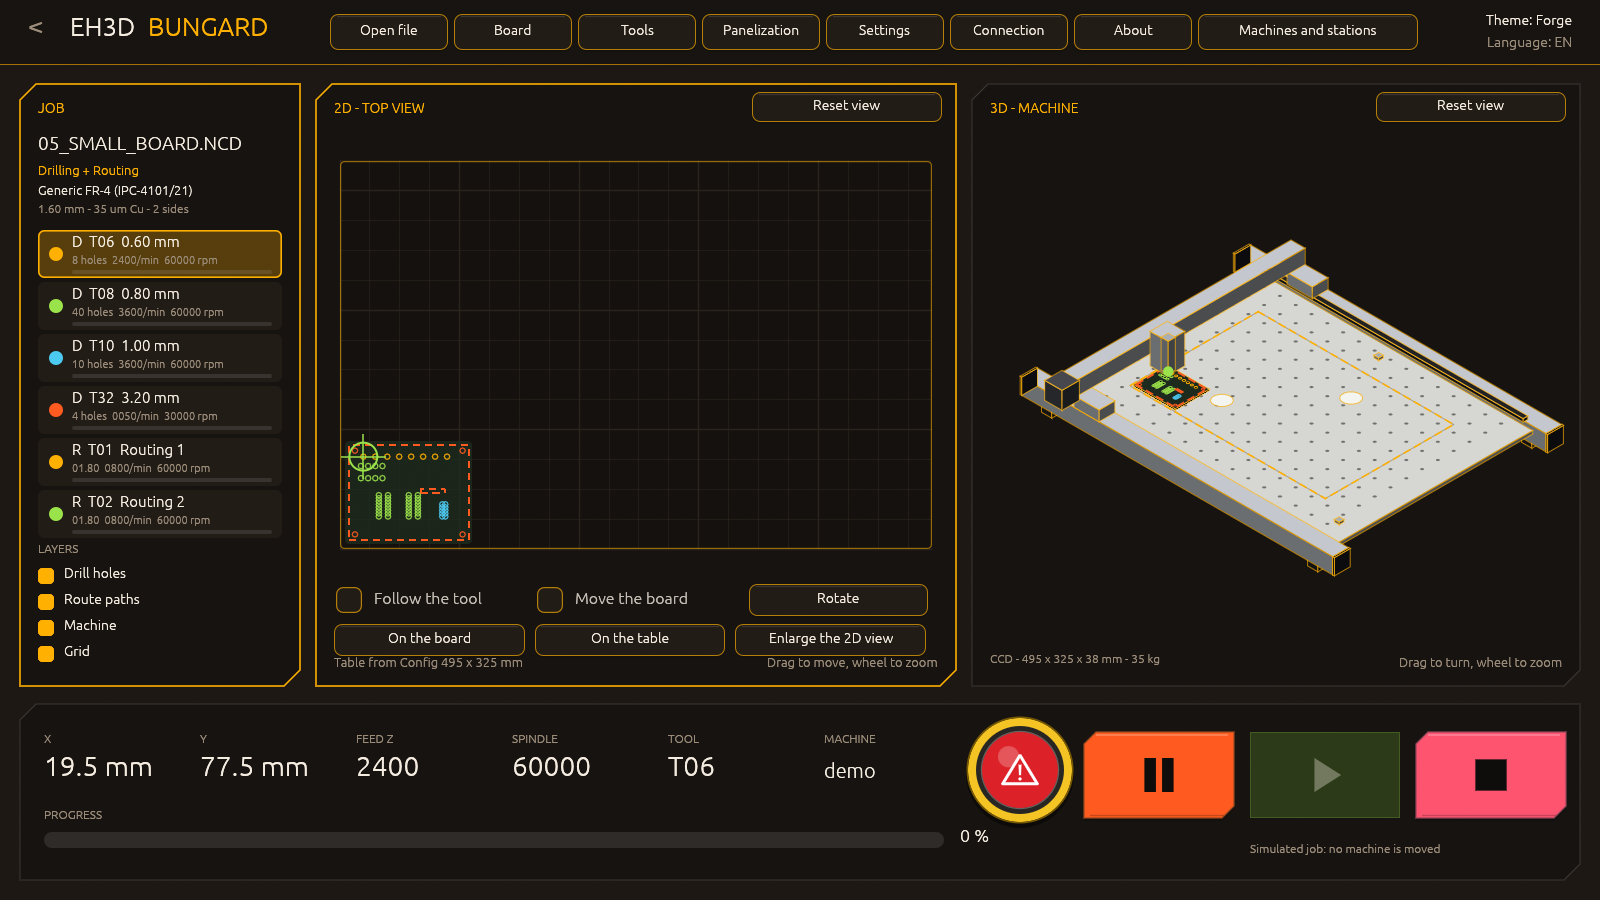
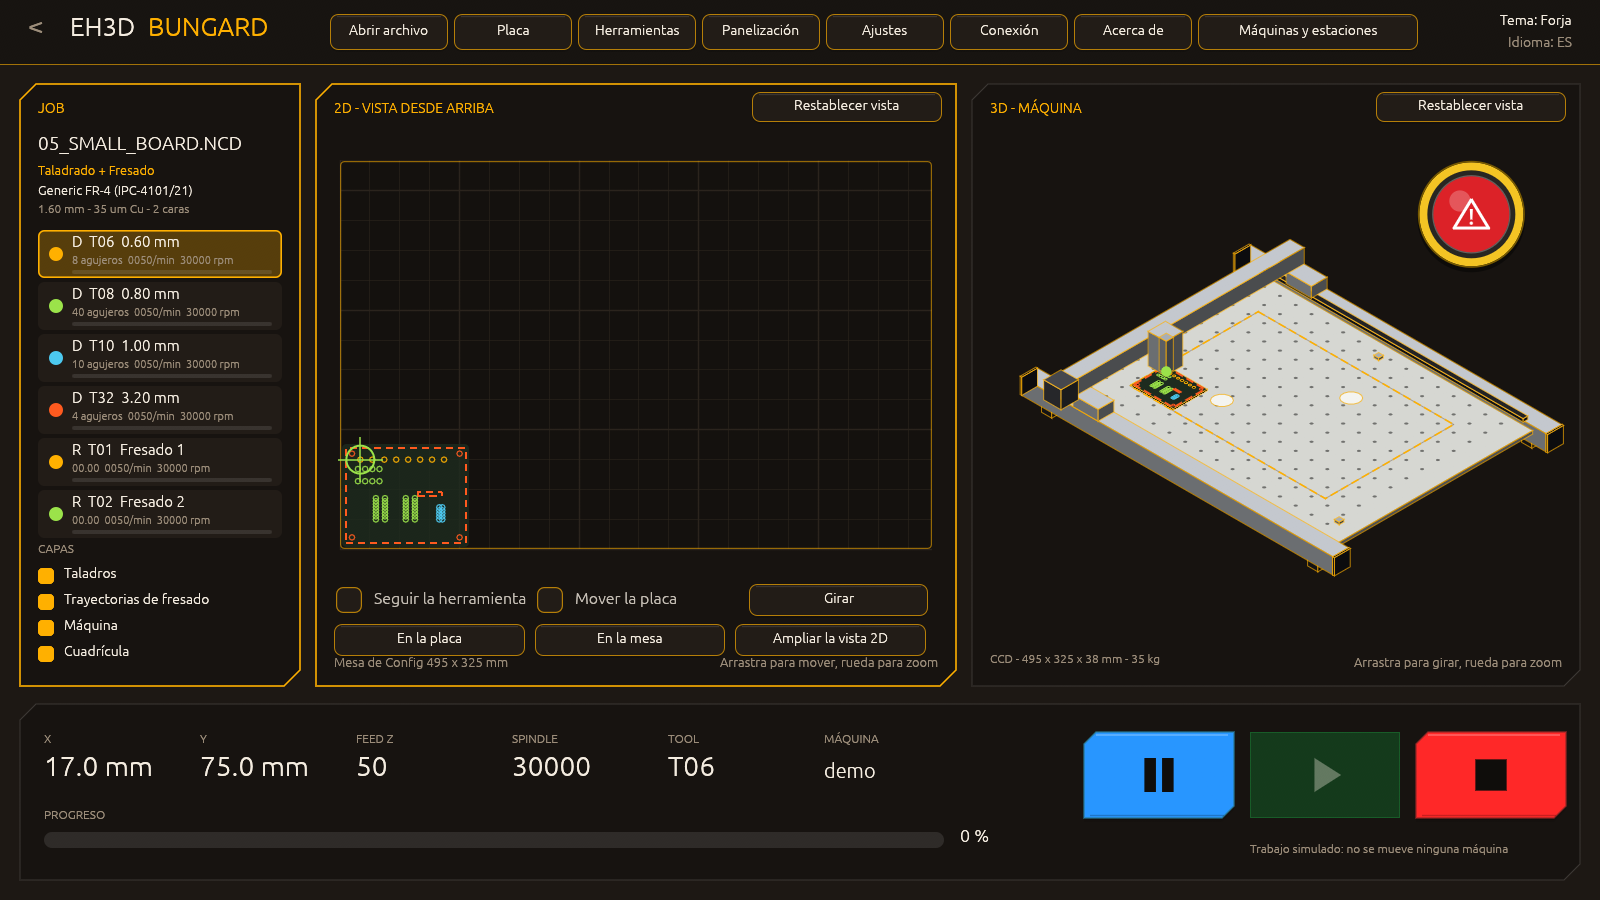
Brighter job buttons: green to start, blue to pause, red to stop

diff --git a/src/gui.rs b/src/gui.rs
@@ -1959,14 +1959,15 @@ impl App {
         );
         // the buttons of the job: Start goes out when the job runs and comes back with Pause or Stop; Pause and Stop work only while it runs
         let (can_start, can_pause, can_stop) = self.job_buttons();
+        // bright colours that mean the same in every theme: green to go, blue to hold (brighter while it holds), red to stop
         let (pause_c, start_c, stop_c) = (
             if self.paused {
-                col(t.accent)
+                Color32::from_rgb(90, 200, 255)
             } else {
-                col(t.accent2)
+                Color32::from_rgb(40, 150, 255)
             },
-            col(t.ok),
-            col(t.danger),
+            Color32::from_rgb(40, 230, 90),
+            Color32::from_rgb(255, 40, 40),
         );
         if can_pause {
             cv.icon_button(
